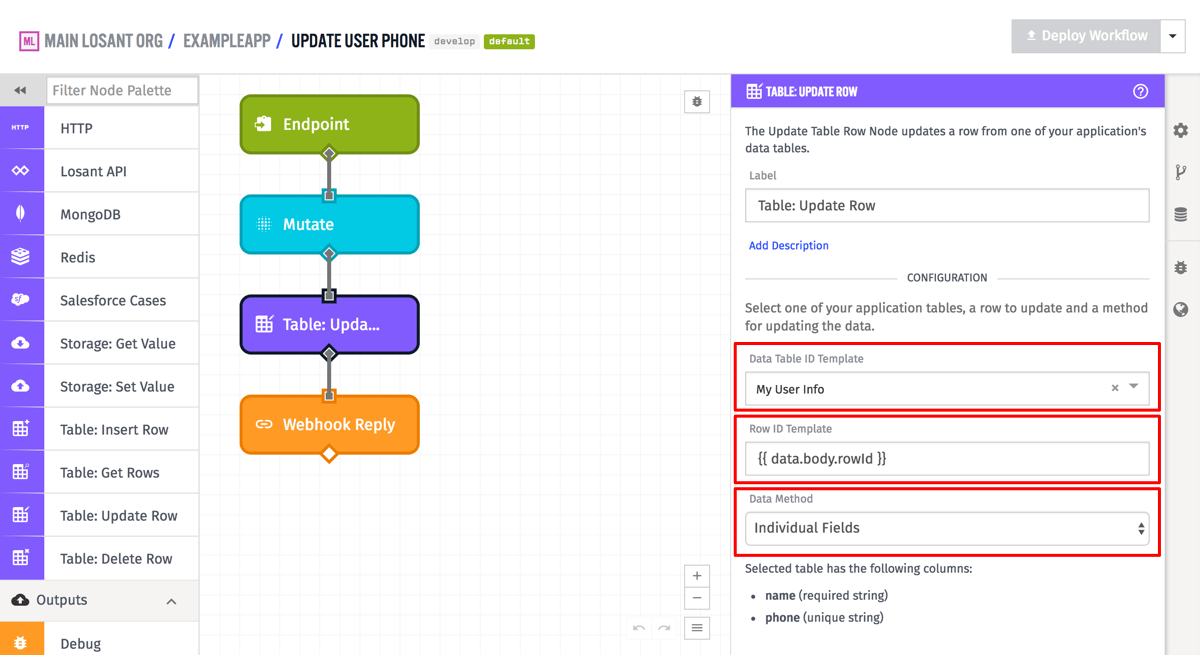
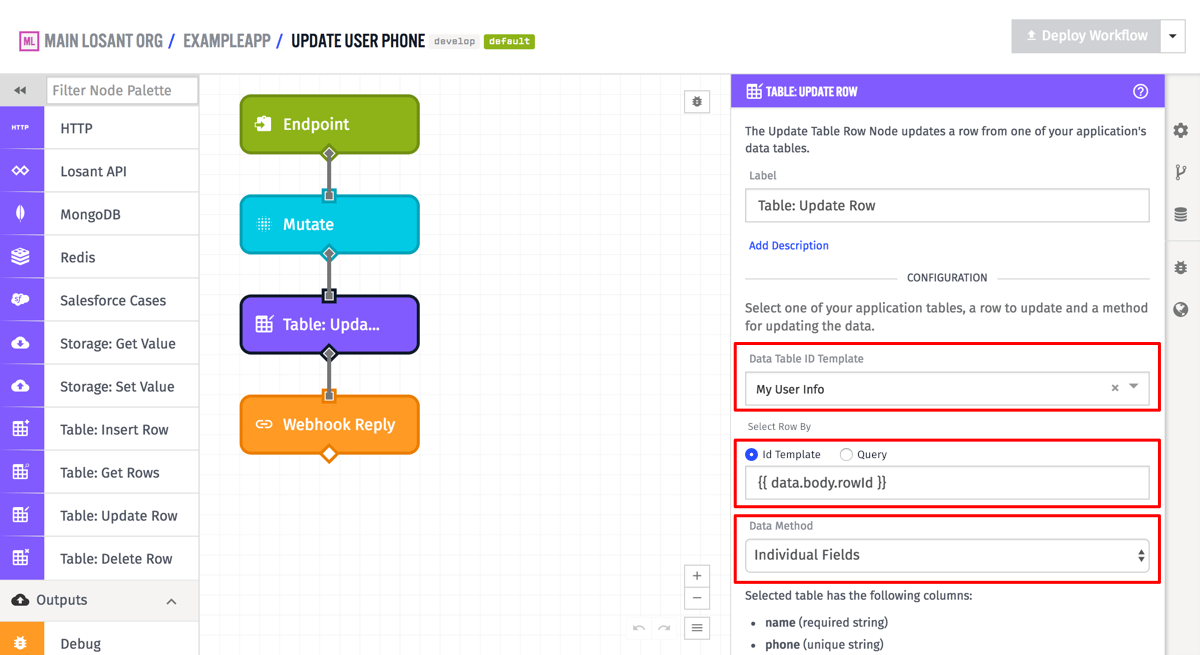
row update node added query and upsert

Changed region(s): [[0.5858, 0.6107, 0.9867, 1.0], [0.9558, 0.6412, 0.9867, 0.6718]]

diff --git a/docs/workflows/data/table-update-row.md b/docs/workflows/data/table-update-row.md
@@ -9,9 +9,15 @@ The Data Table: Update Row Node allows a workflow to update an existing row in a
 
 ## Configuration
 
-To find the row to update, the node requires both a data table to be selected, and the id of the row to update. Both fields are [templatable](/workflows/accessing-payload-data/#string-templates), and so supports finding a row based on the current workflow payload. The example below is doing exactly that, and is referencing the field `data.body.rowId` on the workflow payload.
+To find the row to update, the node requires both a data table to be selected, and by default the id of the row to update. Both fields are [templatable](/workflows/accessing-payload-data/#string-templates), and so supports finding a row based on the current workflow payload. The example below is doing exactly that, and is referencing the field `data.body.rowId` on the workflow payload.
 
 ![Table Update Row Node Configuration](/images/workflows/data/table-update-row-node-config.png "Table Update Row Node Configuration")
+
+As well as looking up the row to be updated by the id template there is also the option, "Select Row By... Query", to search for the row. Building your query within the node is nearly identical to [building a query](/data-tables/overview/#querying-table-data) within the table browsing interface. The only difference is, when building a query within the node, you may use [string templates](/workflows/accessing-payload-data/#string-templates) for each property and value – or, if building an [advanced query](/data-tables/overview/#advanced-queries), you may use a [JSON template](/workflows/accessing-payload-data/#json-templates). When selecting a row by query there is also the option to "Insert row if it does not exist" by selecting the checkbox below your query.
+
+**Note:** Only the first row returned by the query will be updated.
+
+![Table Update Row Node Query](/images/workflows/data/table-update-row-node-query.png "Table Update Row Node Query")
 
 There are three different ways to configure input data for the Table: Update Row Node - "JSON Template", "Payload Path", and "Individual Fields". The first two are more complicated to use, but are very powerful because they give you full control over the row being updated, while the third choice is the more common option for simple situations.
 
